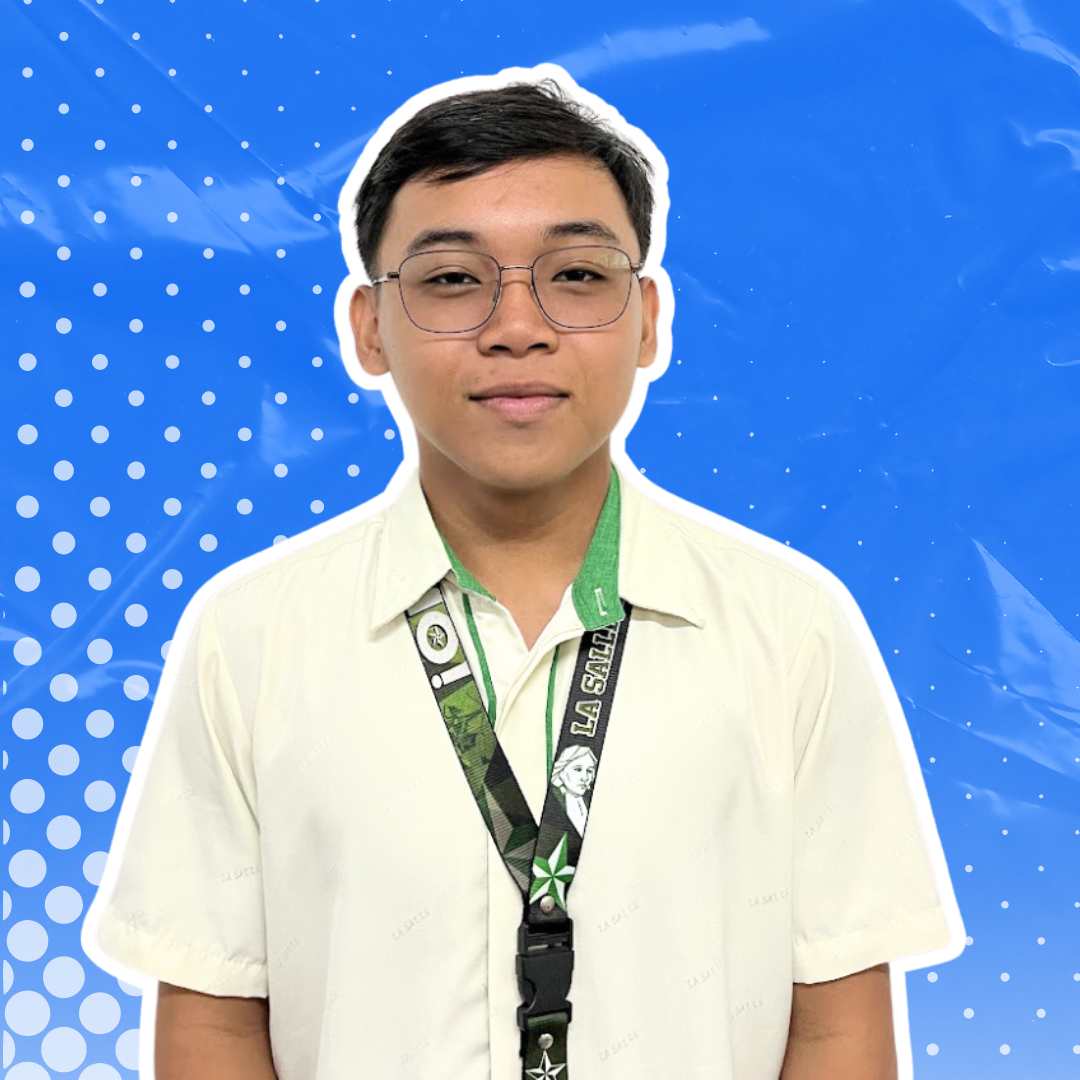
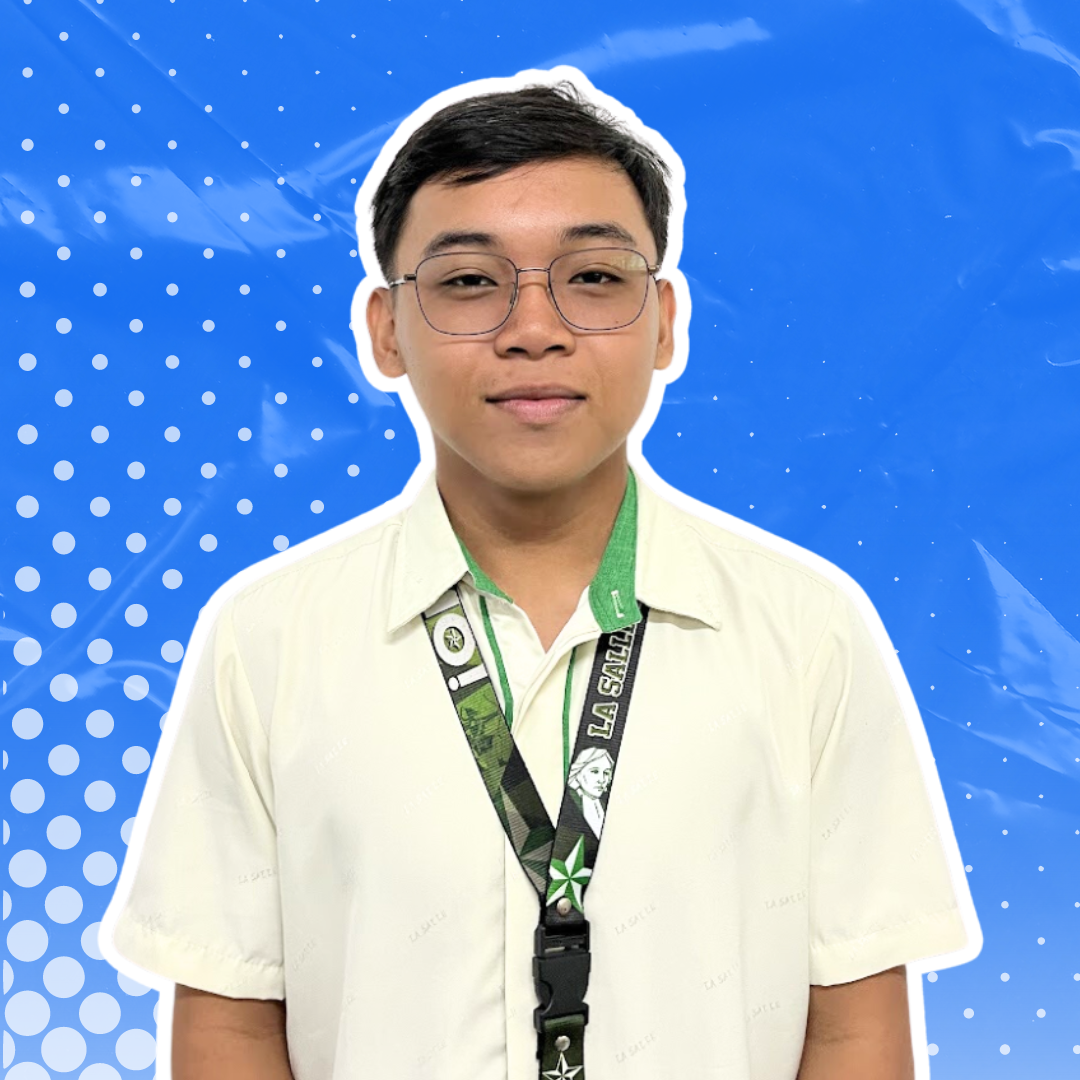
na center ang pics sa team

Changed region(s): [[0.0611, 0.0611, 0.9167, 1.0], [0.2139, 0.6722, 0.275, 0.7944], [0.7333, 0.7028, 0.7639, 0.7333]]

diff --git a/team.html b/team.html
@@ -103,7 +103,7 @@
       
             <div class="col-lg-6 mt-4" data-aos="zoom-in" data-aos-delay="300">
               <div class="member d-flex align-items-start">
-                <div class="pic"><img src="/img/team/lei.jpg" class="img-fluid" alt=""></div>
+                <div class="pic"><img src="/img/team/lei.png" class="img-fluid" alt=""></div>
                 <div class="member-info">
                   <h4>Lei Francine Nason</h4>
                   <span>UI/UX</span>
